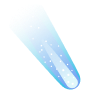
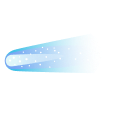
loader done

diff --git a/src/components/GlobalLoader/GlobalLoader.scss b/src/components/GlobalLoader/GlobalLoader.scss
@@ -1,53 +1,122 @@
 .global-loader {
   position: fixed;
-  top: 0;
-  left: 0;
-  width: 100%;
-  height: 100%;
+  inset: 0;
 
   display: flex;
   align-items: center;
   justify-content: center;
 
-  background: rgba(0, 0, 0, 0.4);
-  backdrop-filter: blur(6px);
-
-  z-index: 999999;
+  background: white;
+  z-index: 99;
+  overflow: hidden;
 }
 
-/* контейнер орбиты */
+/* =========================
+   ORBIT CONTAINER
+========================= */
+
 .orbit {
   position: relative;
-  width: 120px;
-  height: 120px;
+  width: 250px;
+  height: 250px;
 }
 
+/* =========================
+   EARTH
+========================= */
+
 .earth {
+  width: 100%;
+  height: 100%;
+  object-fit: contain;
+  display: block;
+}
+
+/* =========================
+   ROTATING LAYER
+========================= */
+
+.cometOrbit {
   position: absolute;
+  inset: 0;
+  animation: orbit 3.2s linear infinite reverse;
+}
+
+/* =========================
+   COMET
+========================= */
+
+.comet {
+  position: absolute;
+
+  /* mobile */
   width: 60px;
   height: 60px;
   top: 50%;
   left: 50%;
-  transform: translate(-50%, -50%);
+  transform:
+    translate(-50%, -50%)
+    translateY(-140px);
 }
 
-.comet {
-  position: absolute;
-  width: 24px;
-  height: 24px;
-
-  top: 50%;
-  left: 50%;
-
-  transform-origin: -40px center;
-  animation: orbit 1.5s linear infinite;
-}
+/* =========================
+   ANIMATION
+========================= */
 
 @keyframes orbit {
   from {
-    transform: rotate(0deg) translateX(40px);
+    transform: rotate(0deg);
   }
+
   to {
-    transform: rotate(360deg) translateX(40px);
+    transform: rotate(360deg);
   }
+}
+
+/* =========================
+   TABLET
+========================= */
+
+@media (min-width: 768px) {
+
+  .orbit {
+    width: 360px;
+    height: 360px;
+  }
+
+  .comet {
+    width: 80px;
+    height: 80px;
+
+    transform:
+      translate(-50%, -50%)
+      translateY(-200px);
+  }
+}
+
+/* =========================
+   DESKTOP
+========================= */
+
+@media (min-width: 1024px) {
+
+  .orbit {
+    width: 400px;
+    height: 400px;
+  }
+
+  .comet {
+    width: 100px;
+    height: 100px;
+
+    transform:
+      translate(-50%, -50%)
+      translateY(-220px);
+  }
+}
+
+body.dark {
+    .global-loader {
+  background: rgba(0, 0, 0);
+    }
 }

diff --git a/src/components/GlobalLoader/GlobalLoader.jsx b/src/components/GlobalLoader/GlobalLoader.jsx
@@ -1,38 +1,30 @@
 import { useGlobalLoader } from "../../context/GlobalLoaderContext";
 import "./GlobalLoader.scss";
 
-// export default function GlobalLoader() {
-//   const { loading } = useGlobalLoader();
-
-//   if (!loading) return null;
-
-//     return ( 
-//     <div className="global-loader">
-//       <div className="orbit">
-//         <h1>HIIIIIIIIIIIIIIIIIIIIIIII</h1>
-//         <img src="/earth.png" alt="earth" className="earth" />
-//         <img src="/comet.png" alt="comet" className="comet" />   
-//       </div>
-//     </div> 
-//     );
-// }
-
 export default function GlobalLoader() {
-  const { isLoading } = useGlobalLoader();
+    const { isLoading } = useGlobalLoader();
 
-  if (!isLoading) return null;
+     if (!isLoading) return null;
 
-  return (
-    <div style={{
-      position: "fixed",
-      top: 0,
-      left: 0,
-      width: "100%",
-      height: "100%",
-      background: "red",
-      zIndex: 999999
-    }}>
-      LOADER
+    return ( 
+  <div className="global-loader">
+    <div className="orbit">
+
+    <img
+      src="/earth.png"
+      alt="earth"
+      className="earth"
+    />
+
+    <div className="cometOrbit">
+      <img
+        src="/comet.png"
+        alt="comet"
+        className="comet"
+      />
     </div>
-  );
+
+  </div>
+</div>
+    );
 }

diff --git a/src/router/AppRouter.jsx b/src/router/AppRouter.jsx
@@ -1,7 +1,7 @@
 import { BrowserRouter, Routes, Route, useLocation } from 'react-router-dom';
 
 import AppBottomNav from '../components/AppBottomNav/AppBottomNav';
-// import RouterLoaderSync from "./RouterLoaderSync";
+import RouterLoaderSync from "../components/RouterLoaderSync";
 import { useAuthStore } from '../zustand/useAuthStore';
 import HomePage from '../pages/HomeFeed/HomePage';
 import Explore from '../pages/Explore/Explore';
@@ -19,14 +19,11 @@ import VerifyResetCodePage from '../pages/Auth/VerifyEmail/VerifyResetCodePage';
 
 import AuthCallback from '../pages/AuthCallback/AuthCallback';
 import ForgotPassword from '../pages/Auth/ForgotPassword/ForgotPasswordPage';
-
 import ResetNewPasswordPage from '../pages/Auth/ResetNewPassword/ResetNewPasswordPage';
 
 import CompleteProfilePage from '../pages/Users/Profile/CompleteProfilePage';
 import EditProfilePage from '../pages/Users/Profile/EditProfilePage';
 import VideoPage from '../pages/Video/VideoPage';
-
-
 import FirstPage from '../pages/FirstPage/FirstPage';
 import WalletPage from '../pages/Wallet/WalletPage';
 import NotificationsPage from '../pages/Notifications/NotificationsPage';
@@ -53,7 +50,6 @@ function AppLayout() {
 
   const user = useAuthStore((s) => s.user);
   const isAuthed = useAuthStore((s) => s.isAuthed);
-
 
   const isAuthRoute =
     location.pathname.startsWith('/auth') || location.pathname === '/auth/callback';
@@ -119,7 +115,7 @@ function AppLayout() {
 export default function AppRouter() {
   return (
     <BrowserRouter>
-    {/* <RouterLoaderSync /> */}
+    <RouterLoaderSync />
       <UserProfileNavProvider>
         <ProfileGuard>
           <GlobalBurgerMenu />

diff --git a/src/components/RouterLoaderSync.jsx b/src/components/RouterLoaderSync.jsx
@@ -11,11 +11,10 @@ export default function RouterLoaderSync() {
 
     const timeout = setTimeout(() => {
       setLoading(false);
-    }, 600);
+    }, 400);
 
     return () => clearTimeout(timeout);
   }, [location.pathname]);
 
   return null;
 }
-